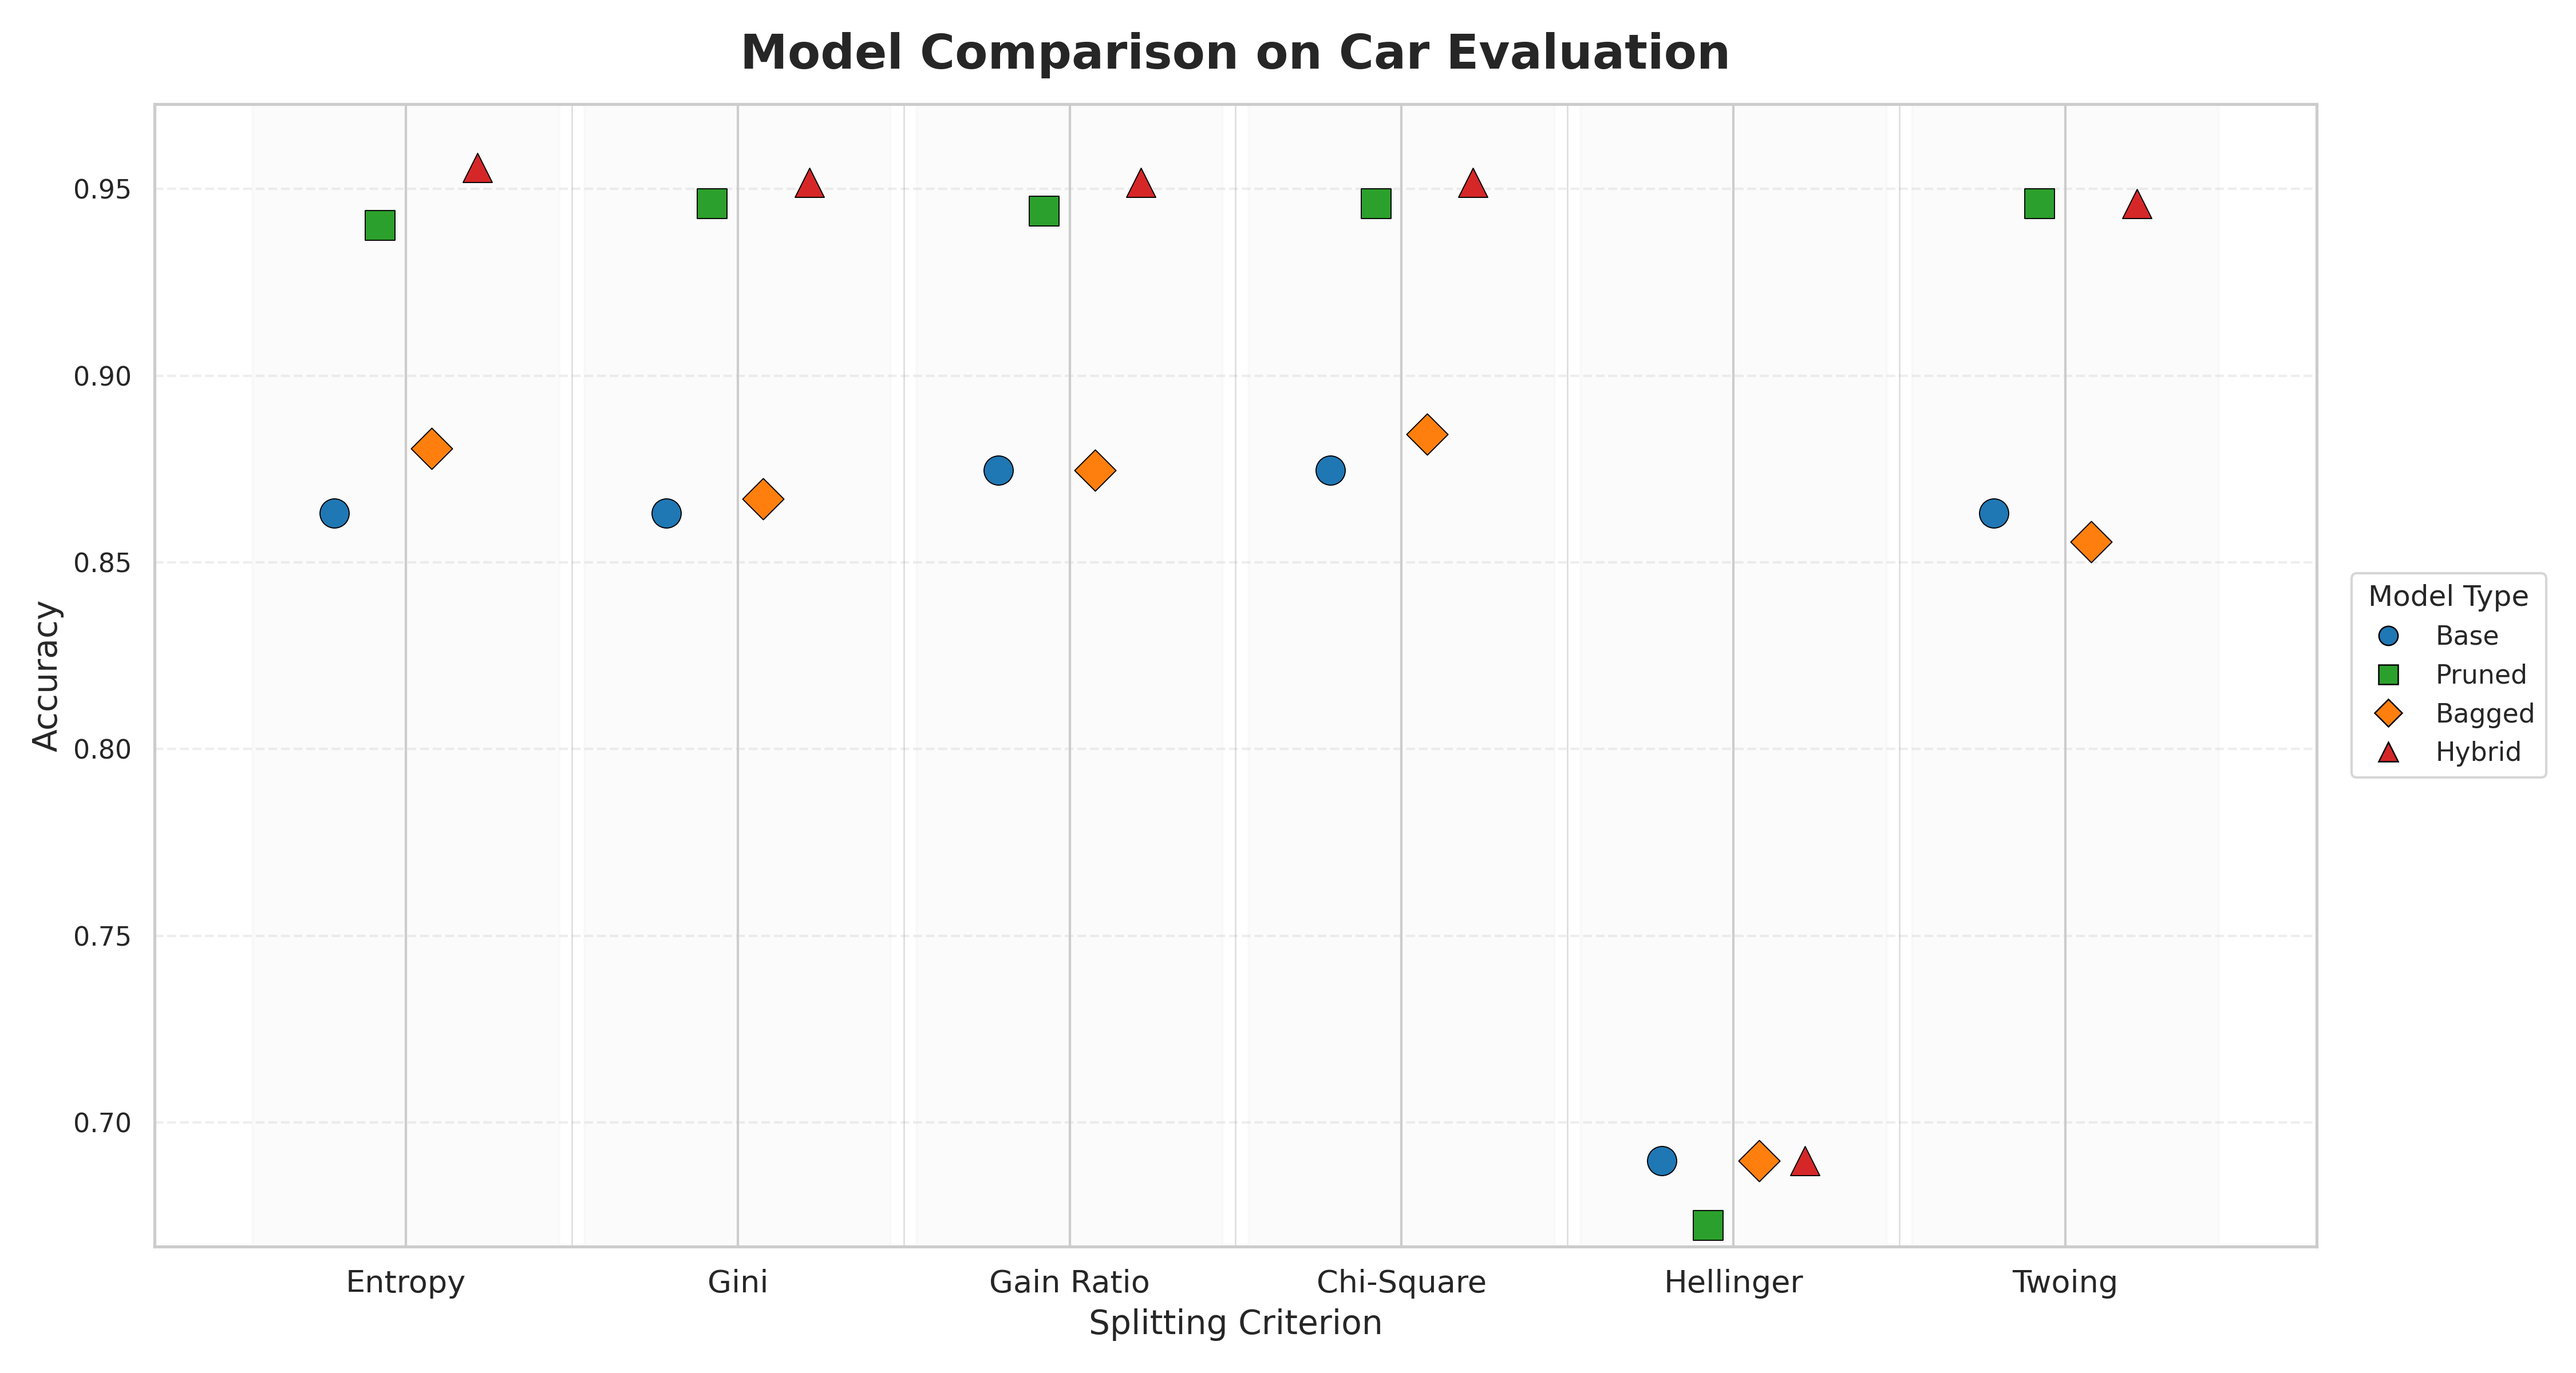
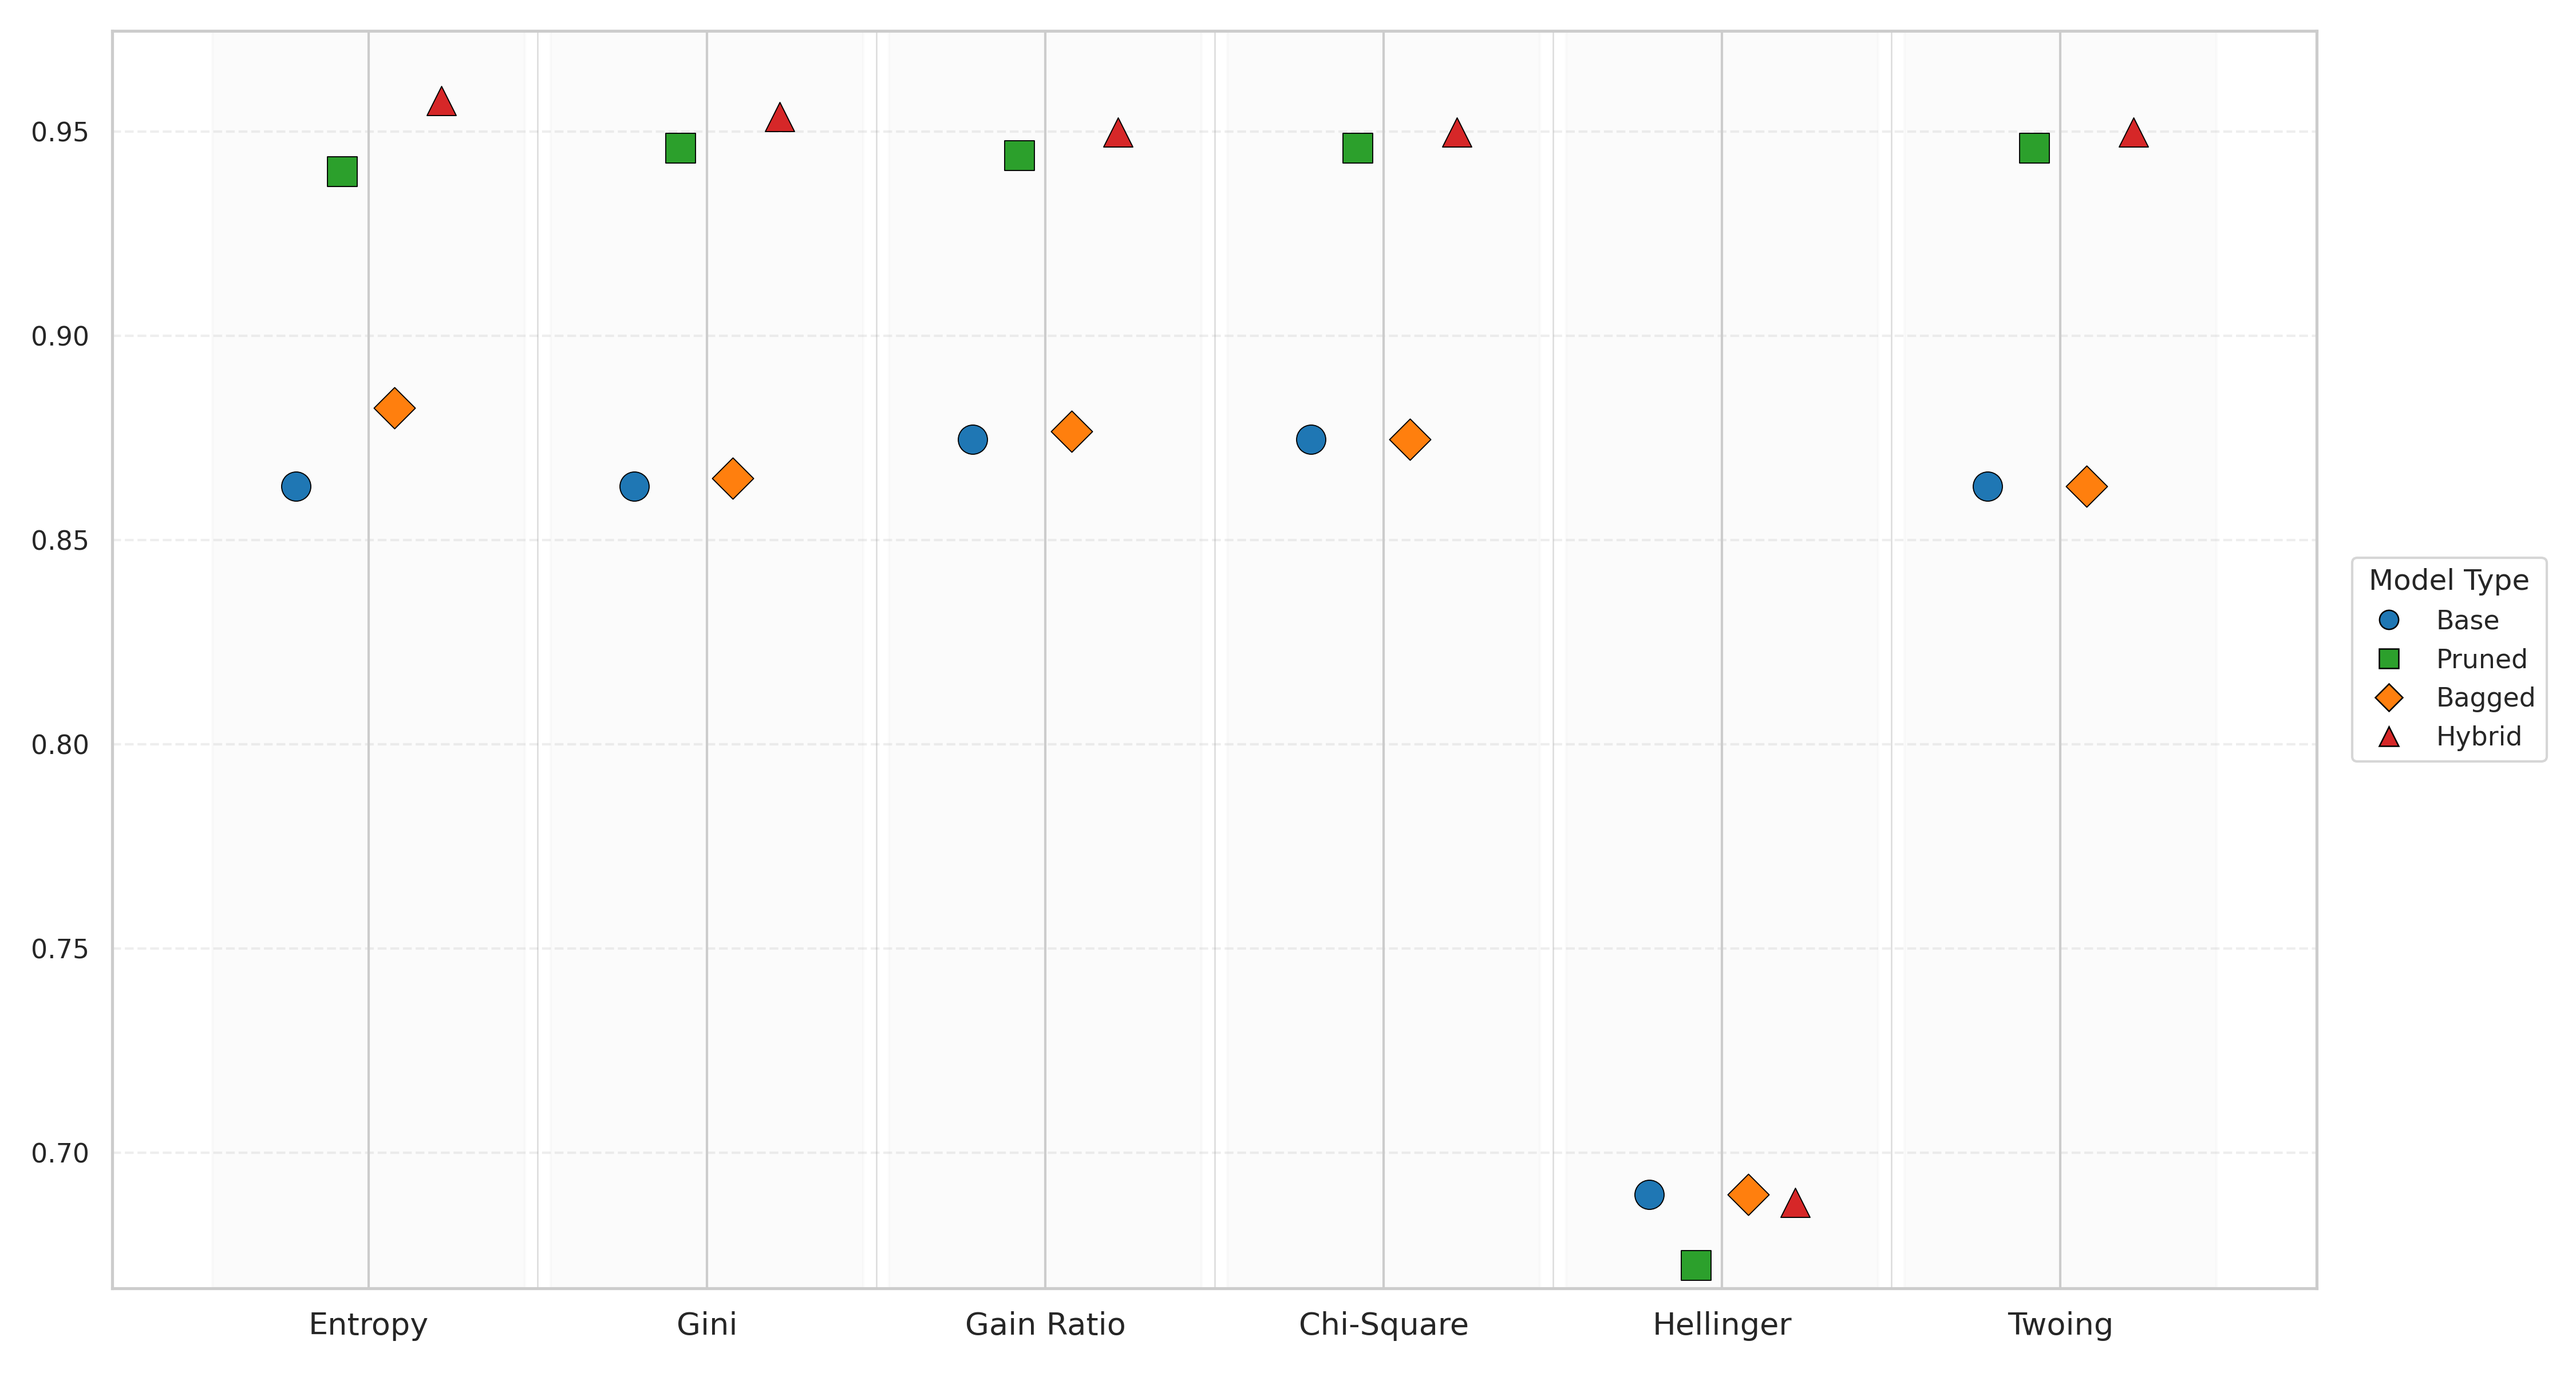
updated plots

diff --git a/task1/plot.py b/task1/plot.py
@@ -92,17 +92,17 @@ def plot_base_criteria_by_dataset(df, save_path):
         hue_order=criteria_order,
         palette=palette
     )
-    
-    plt.title('Base Model Performance: Splitting Criteria vs. Dataset', fontsize=20, fontweight='bold')
-    plt.ylabel('Accuracy', fontsize=14)
-    plt.xlabel('Dataset', fontsize=14)
+    plt.xlabel(None)
+    plt.ylabel(None)
+    # plt.title('Base Model Performance: Splitting Criteria vs. Dataset', fontsize=20, fontweight='bold')
+    # plt.ylabel('Accuracy', fontsize=14)
+    # plt.xlabel('Dataset', fontsize=14)
     
     # Rotate x-axis labels for readability
     plt.xticks(rotation=45, ha='right', fontsize=12)
     
     # Place legend outside the plot
     plt.legend(title='Splitting Criterion', loc='center left', bbox_to_anchor=(1, 0.5), fontsize=12, title_fontsize=14)
-    
     # Adjust ylim to make differences clearer
     min_acc = df['Accuracy'].min() - 0.1
     plt.ylim(max(0, min_acc), 1.0) 

diff --git a/task2/plot_comparision.py b/task2/plot_comparision.py
@@ -242,10 +242,12 @@ def plot_final(acc_list, dataset_name, save_path):
 
     plt.xticks(x_numeric, CRITERIA, fontsize=13)
     plt.ylim(y_lower, y_upper)
-    plt.xlabel("Splitting Criterion", fontsize=14)
-    plt.ylabel("Accuracy", fontsize=14)
-    plt.title(f"Model Comparison on {dataset_name}",
-              fontsize=20, fontweight="bold", pad=15)
+    plt.xlabel(None)
+    plt.ylabel(None)
+    # plt.xlabel("Splitting Criterion", fontsize=14)
+    # plt.ylabel("Accuracy", fontsize=14)
+    # plt.title(f"Model Comparison on {dataset_name}",
+    #           fontsize=20, fontweight="bold", pad=15)
     plt.grid(axis='y', linestyle='--', alpha=0.33)
 
     proxies = [

diff --git a/task1/constants.py b/task1/constants.py
@@ -61,11 +61,6 @@ datasets = [
         ]
     },
     {
-        "name": "Monks-1",
-        "url": "https://archive.ics.uci.edu/ml/machine-learning-databases/monks-problems/monks-1.train",
-        "cols": ["a1", "a2", "a3", "a4", "a5", "a6", "class"]
-    },
-    {
         "name": "Chess (King-Rook vs King-Pawn)",
         "url": "https://archive.ics.uci.edu/ml/machine-learning-databases/chess/king-rook-vs-king-pawn/kr-vs-kp.data",
         "cols": [
